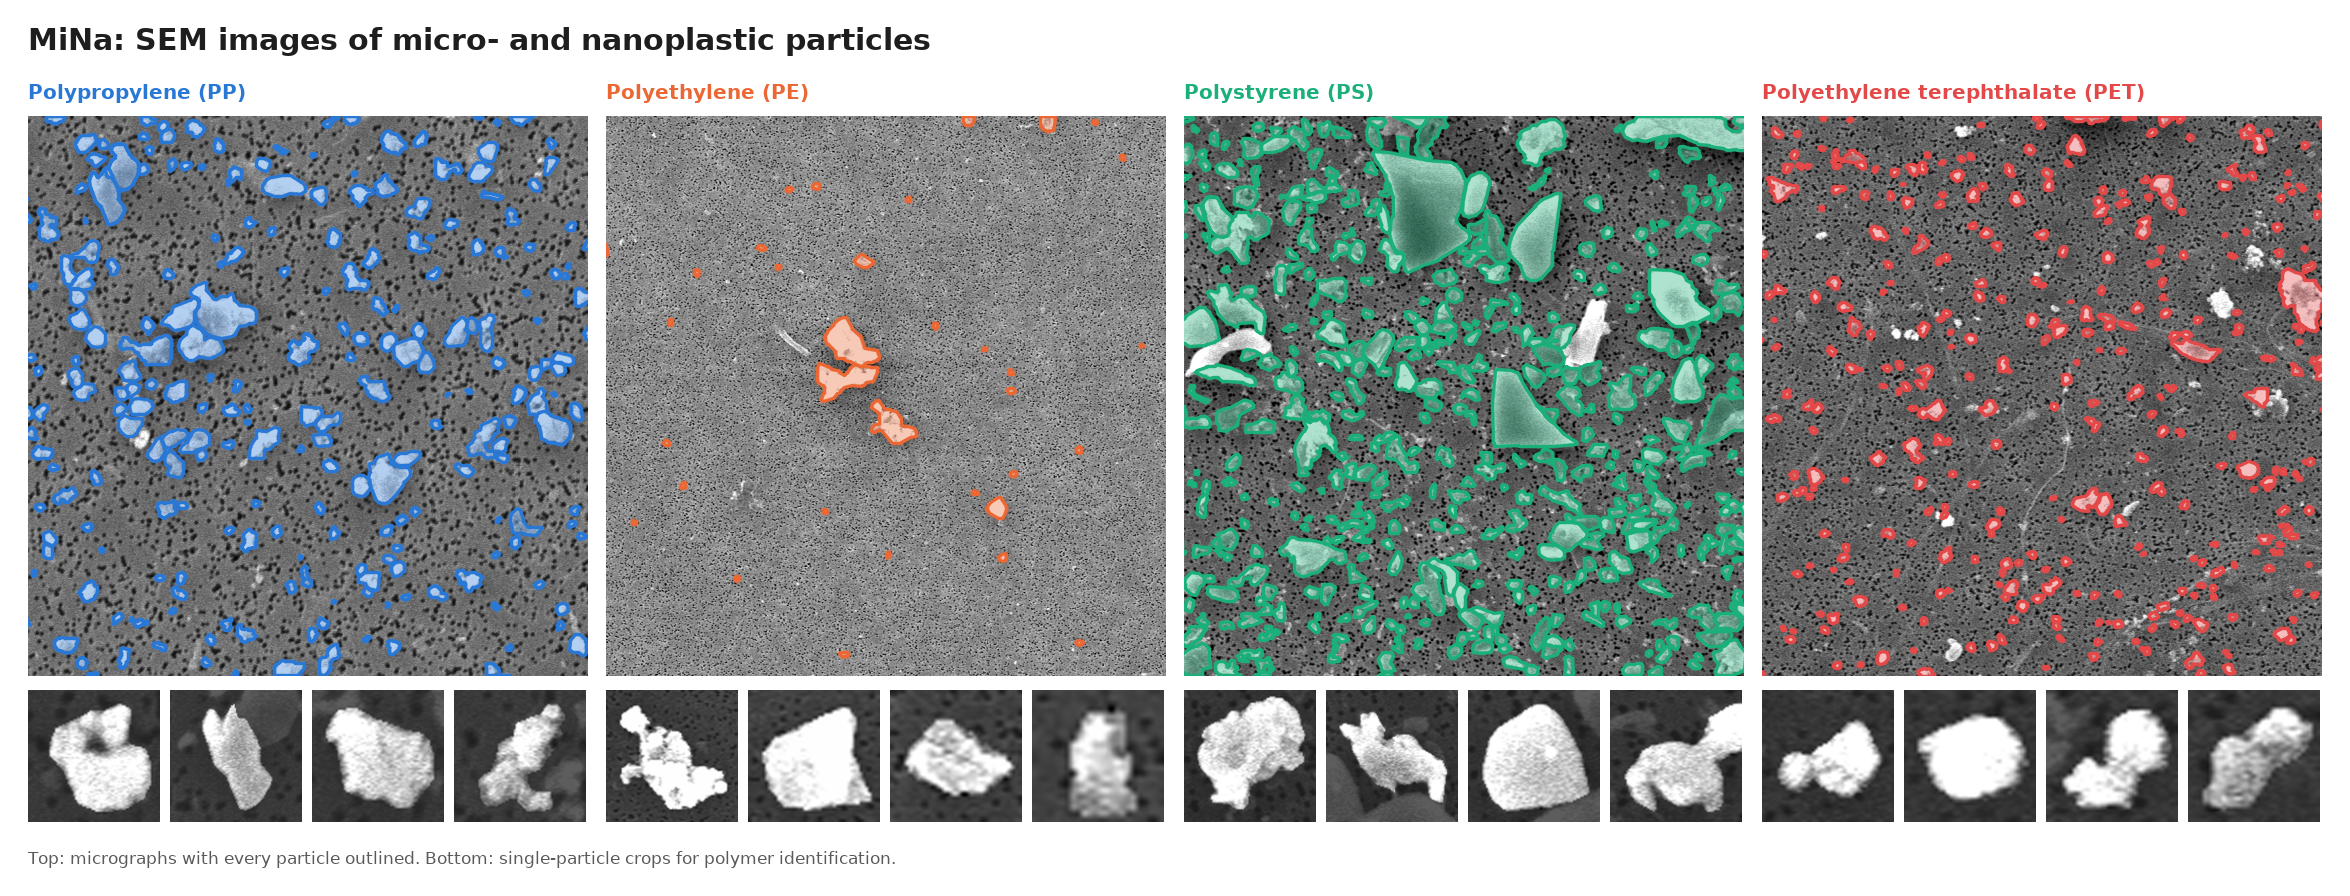
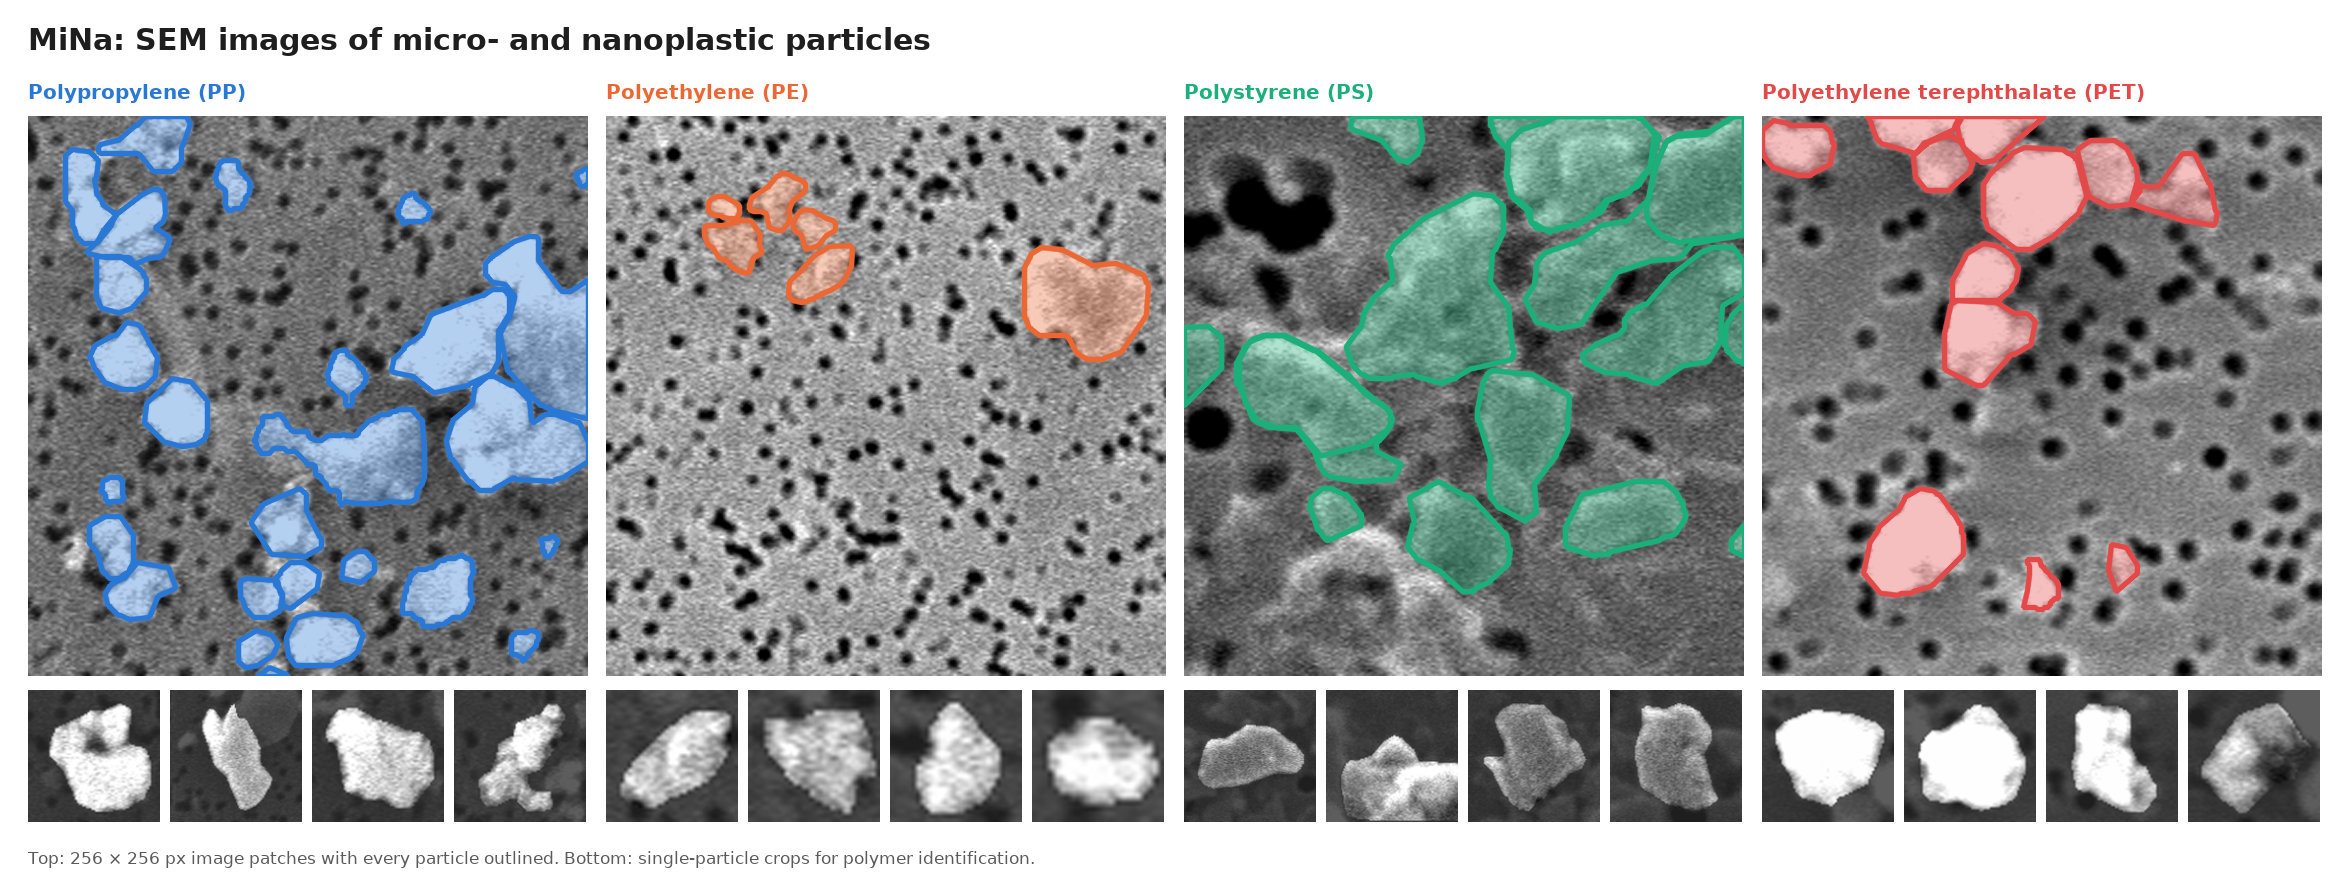
Use image patches in README overview figure and animation

diff --git a/README.md b/README.md
@@ -3,7 +3,7 @@
 [![DOI](https://zenodo.org/badge/DOI/10.5281/zenodo.23627019.svg)](https://doi.org/10.5281/zenodo.23627019)
 
 <p align="center">
-  <img src="assets/mina_overview.gif" alt="MiNa micrographs of the four polymers with particle annotations" width="100%">
+  <img src="assets/mina_overview.gif" alt="MiNa image patches of the four polymers with particle annotations" width="100%">
 </p>
 
 MiNa is a dataset of scanning electron microscopy (SEM) images of micro- and nanoplastic particles of four
@@ -17,7 +17,7 @@ the paper. The data are available on Zenodo: **[doi.org/10.5281/zenodo.23627019]
 
 ## Dataset
 
-![Example micrographs of each polymer with every particle outlined, and single-particle crops](assets/mina_overview.png)
+![Example image patches of each polymer with every particle outlined, and single-particle crops](assets/mina_overview.png)
 
 The Zenodo record contains three archives:
 
